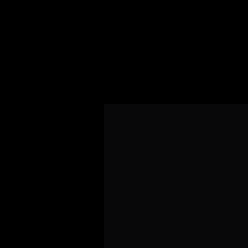
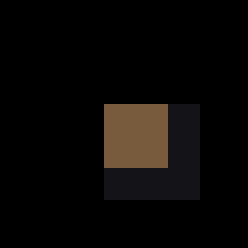
An item weighs grams, not a thousand grams, and a screen shows squares
| piece | was | is |
| --- | --- | --- |
| the weight | the content's milligrams copied into a field of grams | divided by a thousand where the two tables meet |
| the gate | "weight crosses over unchanged", which had the bug baked in | volume unchanged, weight in grams, checked against the dump's 657 |
| the scenario world | a floor with no glyph | a floor drawn `.` |
| the picture | taken at turn zero, which is midnight | taken at 08:00, with `date 28800` |
| the screen check | bytes equal, so a black picture passed | also fails when the scenario lit **no** square |

A scenario log said "rock (657000 g)" and that was the only sign of it: the item tables copy the content's weight, which is milligrams because that is the reference's `units::mass` base, into a field the
registry answers in grams. Six hundred and fifty-seven kilos of rock. The gate that should have caught it asserted that weight **crossed over unchanged** - which it did, in the wrong unit, so the gate
agreed with the bug for as long as it has existed.

That is the lesson of this round: a gate can encode the defect it was written to prevent. The new one states what the two sides count in and compares the answer with the reference's own dump, which
says 657 grams, and the crossover gate now says volume unchanged and weight in grams rather than both unchanged.
[…]

Changed region(s): [[0.3952, 0.3952, 0.6774, 0.6774]]

diff --git a/crates/sim/tests/sim_suite/item_data.rs b/crates/sim/tests/sim_suite/item_data.rs
@@ -55,8 +55,13 @@ fn every_item_the_game_has_can_be_looked_up_by_name_and_number() {
     );
 }
 
+/// **Volume crosses unchanged and weight does not**, because the two sides count in different units: the content's volume is millilitres and its weight is milligrams, the reference's `units::mass` base,
+/// while the registry's `weight_of` answers grams, as `item::weight()` does.
+///
+/// This gate used to assert that both crossed **unchanged**, which is a gate that had the bug baked into it: it compared milligrams against grams, passed, and nobody had asked the reference's dump what a
+/// rock weighs. The dump says 657 grams - `item_data::a_kind_s_weight_reaches_the_store_in_grams` is the gate that asks.
 #[test]
-fn an_items_weight_and_volume_cross_over_unchanged() {
+fn an_items_volume_crosses_unchanged_and_its_weight_crosses_in_grams() {
     let kinds = the_games_items();
     let mut world = World::new();
     cdda_sim::item_data::install(&mut world, kinds, &std::collections::BTreeMap::new());
@@ -75,8 +80,8 @@ fn an_items_weight_and_volume_cross_over_unchanged() {
         );
         assert_eq!(
             cdda_sim::item_registry::weight_of(&mut world, number),
-            kind.weight,
-            "weight of {} did not survive",
+            kind.weight / 1_000,
+            "weight of {} did not cross from milligrams into grams",
             kind.id
         );
         checked += 1;
@@ -118,5 +123,27 @@ fn the_things_that_hold_things_still_hold_them() {
     assert!(
         held > 10_000,
         "the roomiest thing is {id} at {held} ml, which is smaller than any real container"
+    );
+}
+
+/// **A kind's weight reaches the store in grams, not milligrams.** The content keeps milligrams, the reference's base unit, and the store keeps grams - a straight copy made every item in the game a
+/// thousand times too heavy, which showed up as a 657 kg rock in a scenario log before any gate asked.
+///
+/// Reference: `units::mass` (`units.h`) has one milligram as its base, while `item::weight()` reports grams; the reference divides when it reports, and the port divides where the two tables meet. The
+/// figure is checked against the **reference's own dump**, which says a rock weighs 657 grams.
+#[test]
+fn a_kind_s_weight_reaches_the_store_in_grams() {
+    let data = std::path::Path::new(env!("CARGO_MANIFEST_DIR")).join("../../oracle/src/data/json");
+    if !data.is_dir() {
+        return;
+    }
+    let kinds = cdda_content::items::load_paths(&[&data]).expect("the game data loads");
+    let mut world = bevy_ecs::prelude::World::new();
+    cdda_sim::item_data::install(&mut world, &kinds, &std::collections::BTreeMap::new());
+    let rock = cdda_sim::item_registry::id_of(&mut world, "rock").expect("the rock is a kind");
+    assert_eq!(
+        cdda_sim::item_registry::weight_of(&mut world, rock),
+        657,
+        "**six hundred and fifty-seven grams**, as the reference's dump says, and not its milligrams"
     );
 }

diff --git a/crates/cli/src/qa.rs b/crates/cli/src/qa.rs
@@ -314,15 +314,28 @@ pub fn screens(root: &Path) -> Check {
             Ok(outcome) if !outcome.passed() => {
                 failures.push(format!("{stem}: the scenario does not play: {:?}", outcome.failures));
             }
-            Ok(_) => match (std::fs::read(&drawn), std::fs::read(&path)) {
-                (Ok(fresh), Ok(said)) if fresh == said => {}
-                (Ok(fresh), Ok(said)) => failures.push(format!(
-                    "{stem}: the picture changed - {} bytes now against {} recorded",
-                    fresh.len(),
-                    said.len()
-                )),
-                _ => failures.push(format!("{stem}: the picture could not be read back")),
-            },
+            Ok(outcome) => {
+                // **A picture of nothing is not a picture.** A scenario reports how many squares it lit, and a recording taken before the frame could draw says zero - which is what this check was
+                // recording before the frame was fixed. A black picture diffs equal to every other black picture, so the byte comparison alone cannot tell a room from nothing.
+                let lit = outcome
+                    .lines
+                    .iter()
+                    .find(|line| line.starts_with("shot:"))
+                    .and_then(|line| line.rsplit_once(' '))
+                    .and_then(|(_, count)| count.parse::<u32>().ok());
+                if lit == Some(0) {
+                    failures.push(format!("{stem}: the picture has no lit square at all"));
+                }
+                match (std::fs::read(&drawn), std::fs::read(&path)) {
+                    (Ok(fresh), Ok(said)) if fresh == said => {}
+                    (Ok(fresh), Ok(said)) => failures.push(format!(
+                        "{stem}: the picture changed - {} bytes now against {} recorded",
+                        fresh.len(),
+                        said.len()
+                    )),
+                    _ => failures.push(format!("{stem}: the picture could not be read back")),
+                }
+            }
             Err(error) => failures.push(format!("{stem}: {error}")),
         }
         let _ = std::fs::remove_file(&drawn);

diff --git a/crates/sim/src/item_data.rs b/crates/sim/src/item_data.rs
@@ -51,7 +51,10 @@ pub fn install(world: &mut World, kinds: &[ItemType], chip_resistance: &std::col
         .map(|(kind, pockets)| Kind {
             id: &kind.id,
             volume_ml: kind.volume,
-            weight_g: kind.weight,
+            // **Milligrams in, grams out.** The content's `ItemType::weight` is the reference's `units::mass` base, one milligram (`items.rs:38-40`), while a `Kind` weighs in grams because that is
+            // what the reference's `item::weight()` reports. Copying the number across made every item in the game a thousand times too heavy - a 657 g rock weighed 657 kg - which only showed up in a
+            // log line until a gate asked.
+            weight_g: kind.weight / 1_000,
             pockets,
             thrown_damage: kind.thrown_damage,
             // Reference: `itype::melee_damage` (`item_factory.cpp:4109`) - the same map a swing reads, kept per damage type there and split here into the two the port's

diff --git a/crates/cli/src/lib.rs b/crates/cli/src/lib.rs
@@ -646,6 +646,9 @@ pub fn build_world(world: &mut World, side: i32, flammable: bool) {
     let mut terrain = cdda_sim::terrain_table::TerrainTable::new();
     terrain.insert(1, true);
     terrain.insert_move_cost(1, 2);
+    // **The floor has a glyph.** A scenario's floor was walkable and invisible: the table knew its transparency and its move cost and not its symbol, so every picture a scenario drew was a field of
+    // blank spaces - and a field of blank spaces is black, which is a picture that diffs equal to every other picture of nothing.
+    terrain.insert_symbol(1, '.');
     cdda_sim::set_prototypes(
         world,
         cdda_sim::Prototypes {

diff --git a/docs/parity.md b/docs/parity.md
@@ -16785,6 +16785,10 @@ table, the clock started at **turn zero, which is midnight**, and the daylight w
 whose floor and walls have their glyphs, and `cli::capture::draw` casts the sun at the world's own turn and asks the frame with the ambient light and a character's vision threshold. The gate says a
 picture of a room is **not one flat colour**, because a black picture diffs equal to every other black picture.
 
+**The QA screen check now refuses a picture of nothing** (round 1402): a scenario's floor had no glyph either, so its recorded picture was a field of blank spaces - and the byte comparison passed because
+a black picture diffs equal to every other black picture. `qa::screens` now reads the scenario's own `shot:` line and fails when it lit **zero** squares, the scenario world's floor has its `.`, and the
+scenario takes its picture at 08:00 with `date 28800`.
+
 **The buffs' `bonus_container` is not reachable from a dump, and that is why its numbers are not loaded.** `ma_buff`'s bonuses live in a `bonus_container` whose only interface takes a `Character`
 (`bonuses.cpp:221-258`), so a dump could only recover them by probing a character and solving for the scale - a guess dressed as data. The rules that read such a container are ported and gated
 (round 1379); the *numbers* wait for a reachable accessor.

diff --git a/docs/13-test-inventory.md b/docs/13-test-inventory.md
@@ -1549,3 +1549,7 @@ reference's own body rather than adjusted to fit the dump.
 **Round 1401 found the QA surface was drawing nothing.** `shot` wrote a perfectly valid 200×200 PNG of a black field, and the QA table called the screen check green because a black picture diffs equal
 to every other black picture. Three causes, each hidden by the other two: no glyph table, a clock at midnight, and no sunlight cast. The capture test now asserts that a picture of a room contains more
 than one tint and at least one lit glyph, which is the weakest statement that still fails on a picture of nothing.
+
+**Round 1402 found a gate with the bug baked into it.** `an_items_weight_and_volume_cross_over_unchanged` asserted that a kind's weight crossed into the registry unchanged - and it did, as **milligrams**
+into a field documented in **grams**, so every item in the game was a thousand times too heavy. The gate passed because it compared the wrong two numbers, and the only reason anyone noticed is that a
+scenario printed "rock (657000 g)". The gate now states the two units and the corpus says 657.
